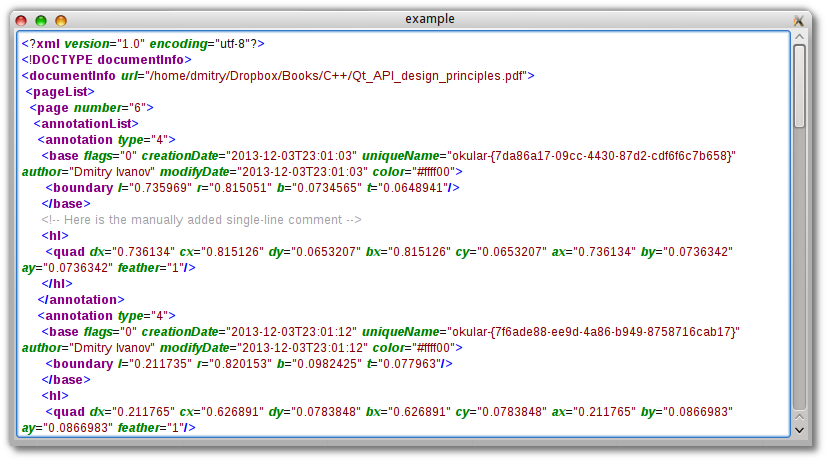
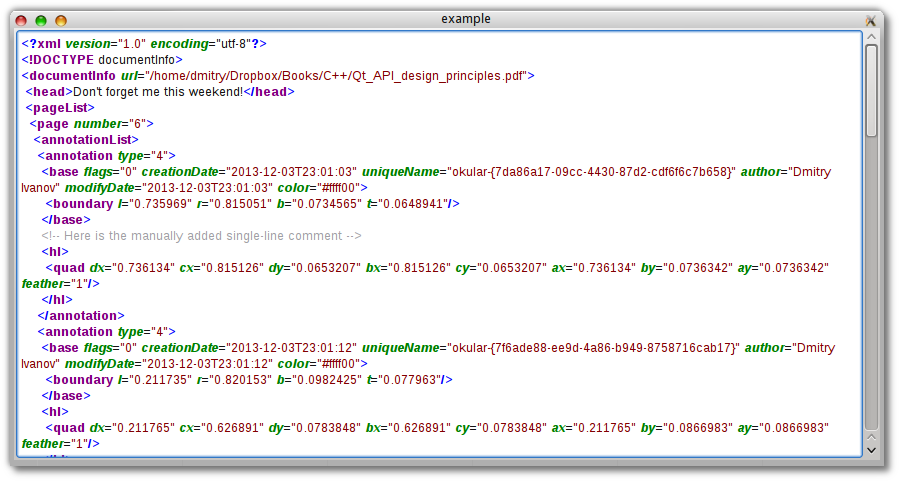
Issue #1: fix incorrect formatting of text with spaces within xml elements, update sample xml and screenshot

Changed region(s): [[0.0, 0.0303, 0.9964, 0.9697]]

diff --git a/basic-xml-syntax-highlighter/BasicXMLSyntaxHighlighter.cpp b/basic-xml-syntax-highlighter/BasicXMLSyntaxHighlighter.cpp
@@ -23,6 +23,18 @@ BasicXMLSyntaxHighlighter::BasicXMLSyntaxHighlighter(QTextEdit * parent) :
 
 void BasicXMLSyntaxHighlighter::highlightBlock(const QString & text)
 {
+    // Special treatment for xml element regex as we use captured text to emulate lookbehind
+    int xmlElementIndex = m_xmlElementRegex.indexIn(text);
+    while(xmlElementIndex >= 0)
+    {
+        int matchedPos = m_xmlElementRegex.pos(1);
+        int matchedLength = m_xmlElementRegex.cap(1).length();
+        setFormat(matchedPos, matchedLength, m_xmlElementFormat);
+
+        xmlElementIndex = m_xmlElementRegex.indexIn(text, matchedPos + matchedLength);
+    }
+
+    // Highlight xml keywords *after* xml elements to fix any occasional / captured into the enclosing element
     typedef QList<QRegExp>::const_iterator Iter;
     Iter xmlKeywordRegexesEnd = m_xmlKeywordRegexes.end();
     for(Iter it = m_xmlKeywordRegexes.begin(); it != xmlKeywordRegexesEnd; ++it) {
@@ -30,7 +42,6 @@ void BasicXMLSyntaxHighlighter::highlightBlock(const QString & text)
         highlightByRegex(m_xmlKeywordFormat, regex, text);
     }
 
-    highlightByRegex(m_xmlElementFormat, m_xmlElementRegex, text);
     highlightByRegex(m_xmlAttributeFormat, m_xmlAttributeRegex, text);
     highlightByRegex(m_xmlCommentFormat, m_xmlCommentRegex, text);
     highlightByRegex(m_xmlValueFormat, m_xmlValueRegex, text);
@@ -52,13 +63,14 @@ void BasicXMLSyntaxHighlighter::highlightByRegex(const QTextCharFormat & format,
 
 void BasicXMLSyntaxHighlighter::setRegexes()
 {
-    m_xmlElementRegex.setPattern("\\w+(?=[\\s/>])");
+    m_xmlElementRegex.setPattern("<[\\s]*[/]?[\\s]*([^\\n]\\w+)(?=[\\s/>])");
     m_xmlAttributeRegex.setPattern("\\w+(?=\\=)");
     m_xmlValueRegex.setPattern("\"[^\\n\"]+\"(?=[\\s/>])");
     m_xmlCommentRegex.setPattern("<!--[^\\n]*-->");
 
-    m_xmlKeywordRegexes = QList<QRegExp>() << QRegExp("\\b?xml\\b") << QRegExp("/>")
-                                           << QRegExp(">") << QRegExp("<") << QRegExp("</");
+    m_xmlKeywordRegexes = QList<QRegExp>() << QRegExp("<\\?") << QRegExp("/>")
+                                           << QRegExp(">") << QRegExp("<") << QRegExp("</")
+                                           << QRegExp("\\?>");
 }
 
 void BasicXMLSyntaxHighlighter::setFormats()
